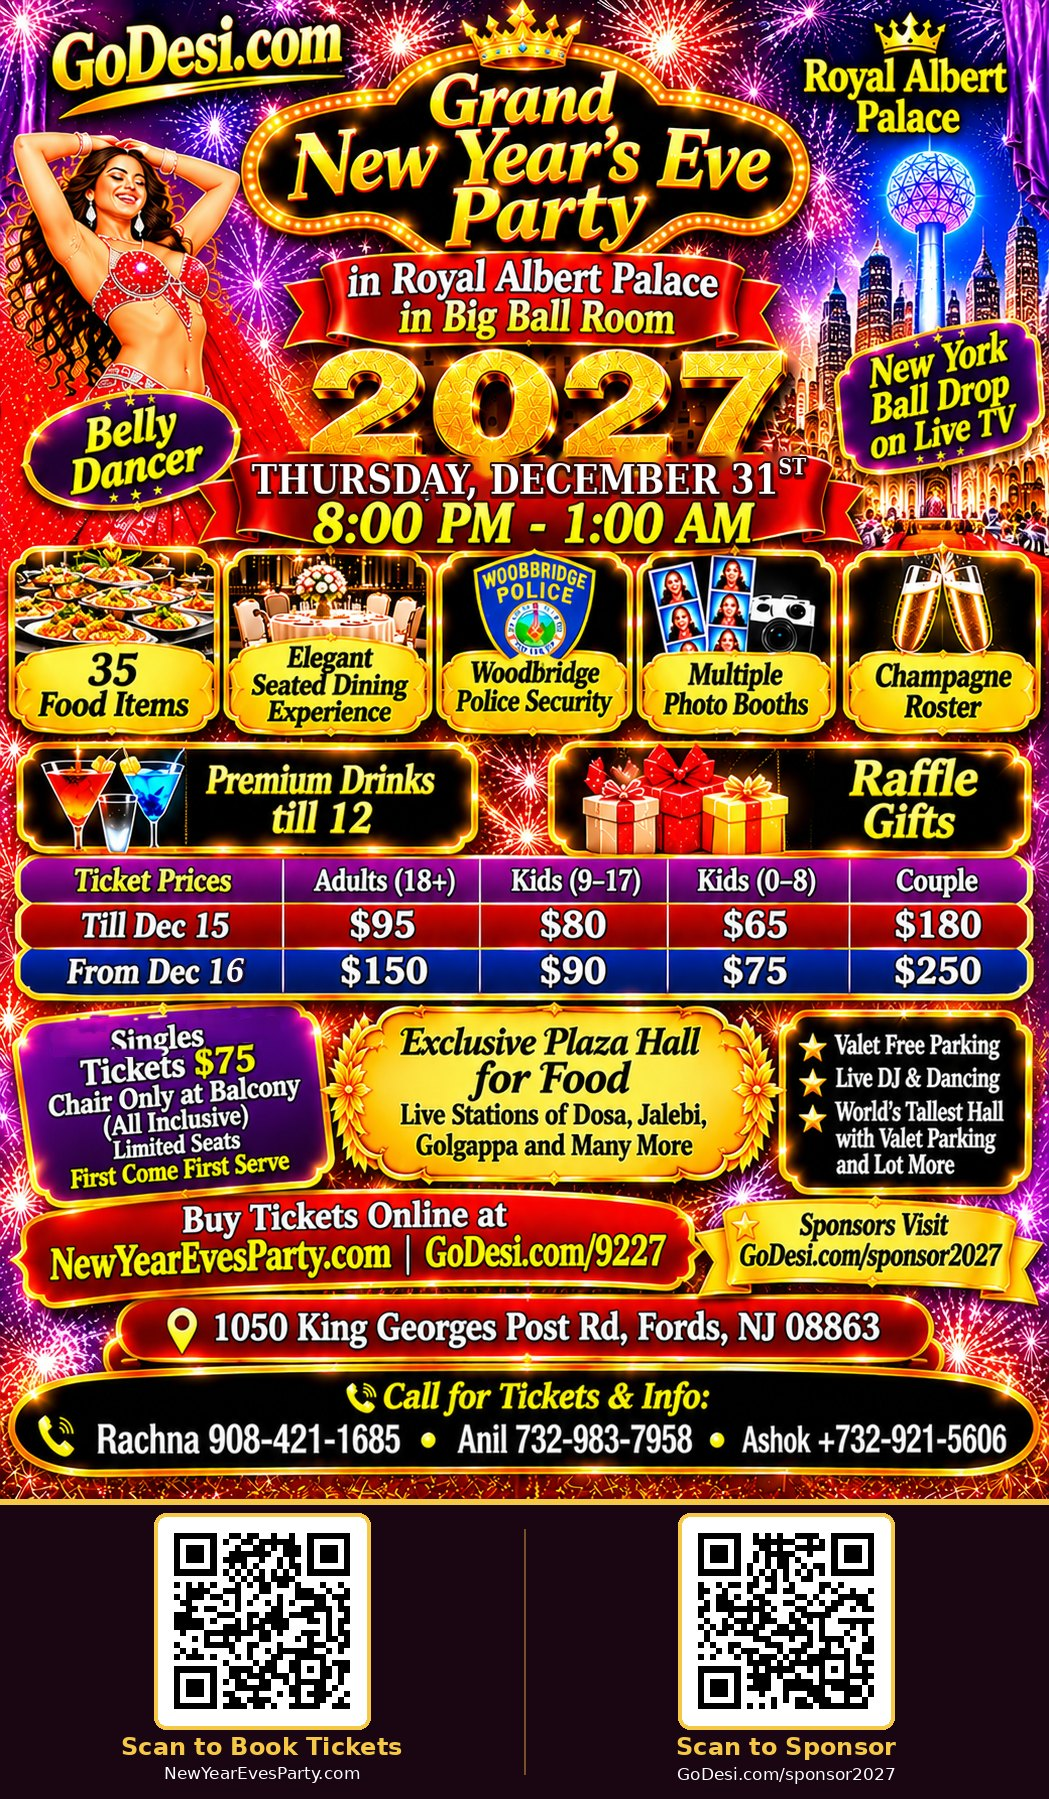
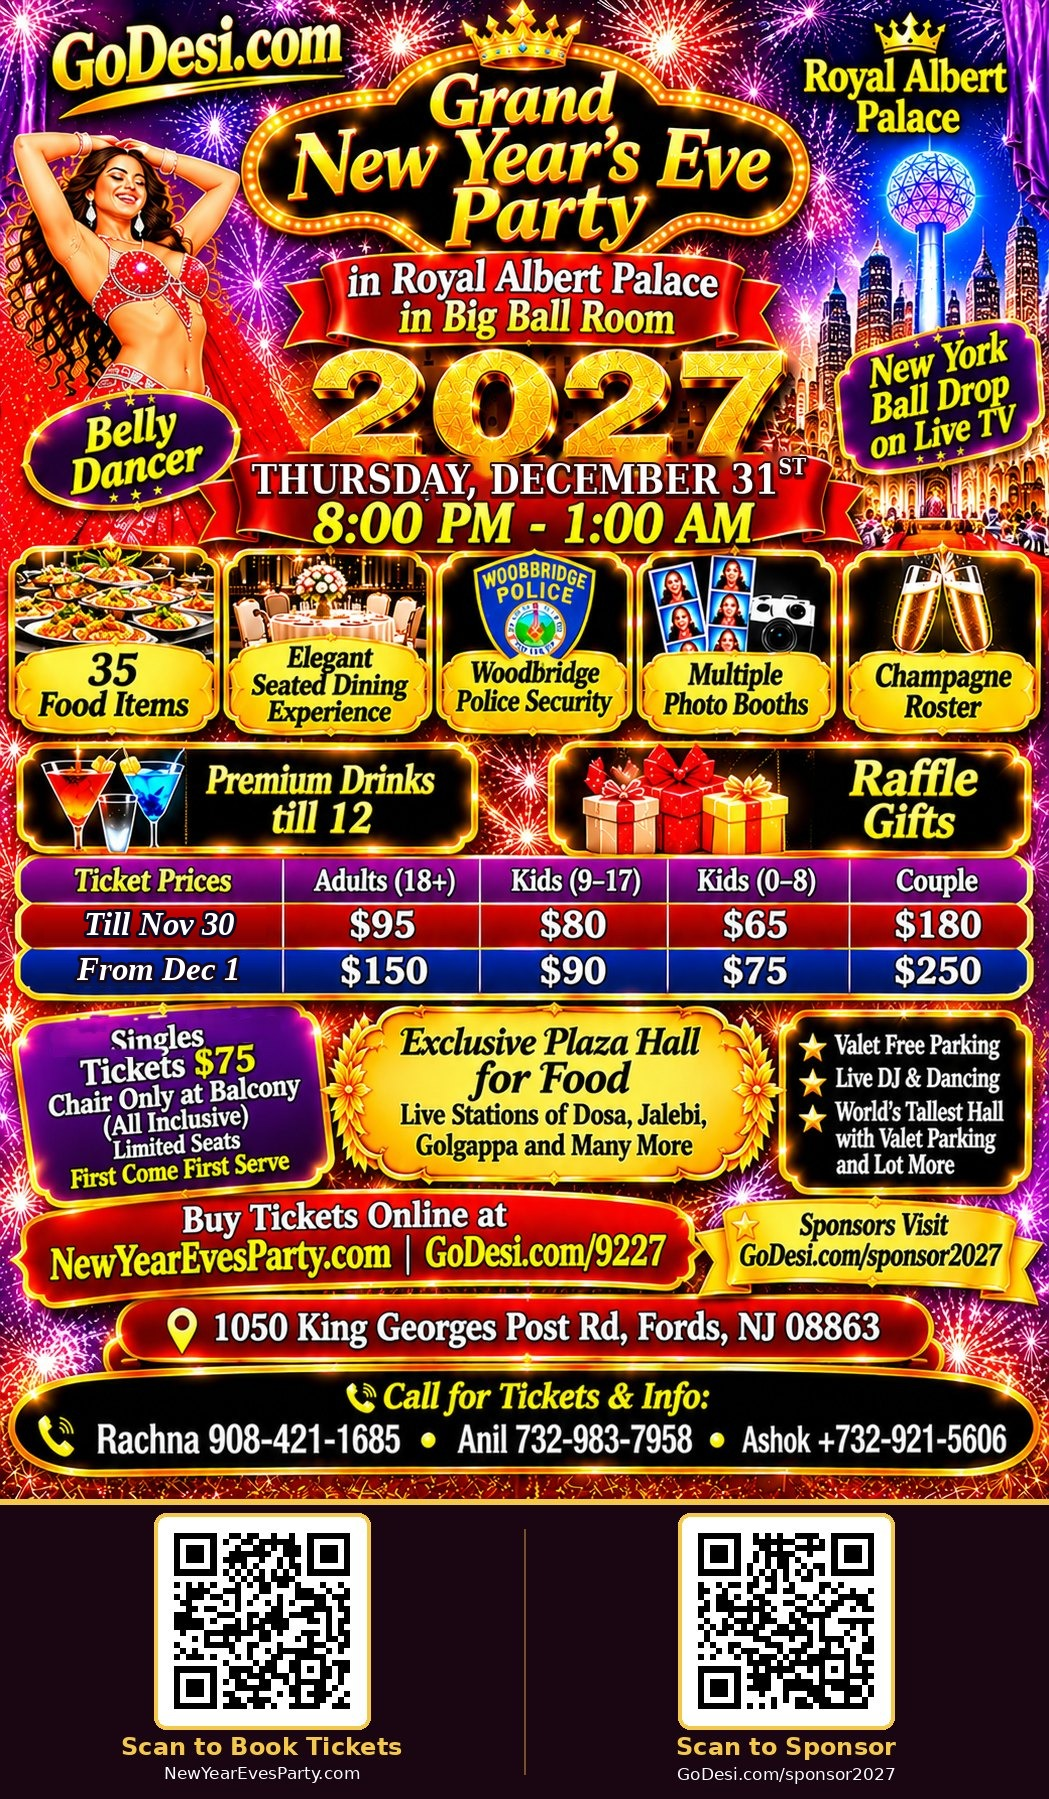
NYE 2027: early prices till Nov 30, late from Dec 1 (script, copy, flyer); drop Kid — no seat

Changed region(s): [[0.061, 0.4981, 0.244, 0.5603], [0.4576, 0.3113, 0.5796, 0.3424], [0.8541, 0.0934, 0.9152, 0.1245]]

diff --git a/scripts/update-nye-2027-edison.ts b/scripts/update-nye-2027-edison.ts
@@ -1,7 +1,7 @@
 /**
  * Brings the NYE 2027 Edison listing in line with the organiser's flyer: 8 PM start,
- * flyer image, early (till Dec 15) / late (from Dec 16) ticket prices plus the $75 balcony
- * chairs and Kid — no seat, and guest reviews typed out from the WhatsApp review album (first names only).
+ * flyer image, early (till Nov 30) / late (from Dec 1) ticket prices plus the $75 balcony
+ * chairs, and guest reviews typed out from the WhatsApp review album (first names only).
  * Safe to re-run: tiers are matched by name, reviews are replaced. Ticket tiers no longer in
  * TIERS are deleted when unsold (checkouts older than Stripe's 24h expiry just lose their tier),
  * or closed for sale when someone paid for one or may still be paying.
@@ -17,21 +17,16 @@ const SLUG = NYE_2027_EVENT_SLUG;
 const FLYER = "https://godesi.com/flyers/nye-2027-grand-party.jpg";
 const REVIEWS_ALBUM = "https://photos.app.goo.gl/nQrusW5e5pojmj7P7";
 
-/** Windows are in New York time; salesEnd is exclusive, so early tickets sell through Dec 15. */
+/** Windows are in New York time; salesEnd is exclusive, so early tickets sell through Nov 30. */
 const CHECKOUT_EXPIRY_CUTOFF = new Date(Date.now() - 24 * 60 * 60 * 1000);
-const LATE_START = new Date("2026-12-16T00:00:00-05:00");
+const LATE_START = new Date("2026-12-01T00:00:00-05:00");
 const EARLY_END = LATE_START;
-
-/** Kids who share a parent's chair: let in at the door but not given a seat. */
-const KID_NO_SEAT_PRICE = 0;
-const KID_NO_SEAT_STOCK = 25;
-const KID_NO_SEAT_LABEL = KID_NO_SEAT_PRICE ? `$${KID_NO_SEAT_PRICE}` : "free";
 
 const DESCRIPTION = [
   "Grand New Year's Eve Party 2027 in the Big Ball Room at Royal Albert Palace — Thursday, December 31st, 2026, 8:00 PM to 1:00 AM. Hosted by NewYearEvesParty.com, celebrating since 2018.",
   "35 food items and an elegant seated dining experience, with an exclusive Plaza Hall of live food stations — dosa, jalebi, golgappa and more. Premium drinks until midnight and a midnight champagne toast.",
   "Live DJ Sandy of M&D Events, a live belly dance performance, the New York ball drop on live TV, multiple photo booths and exciting raffle prizes. Woodbridge Police security and free valet parking.",
-  `Till Dec 15: Couple $180, Adult (18+) $95, Big Kid (9–17) $80, Small Kid (0–8) $65. From Dec 16: Couple $250, Adult (18+) $150, Big Kid (9–17) $90, Small Kid (0–8) $75. Kid — no seat (sits with a parent, no chair of their own): ${KID_NO_SEAT_LABEL}. VIP Table for 12 with a bottle of champagne on the table (only 5 tables): $1080 till Dec 15, $1200 from Dec 16. Balcony $75 — adults, chair only, all inclusive, limited seats, first come, first served, no table seating.`,
+  "Till Nov 30: Couple $180, Adult (18+) $95, Big Kid (9–17) $80, Small Kid (0–8) $65. From Dec 1: Couple $250, Adult (18+) $150, Big Kid (9–17) $90, Small Kid (0–8) $75. VIP Table for 12 with a bottle of champagne on the table (only 5 tables): $1080 till Nov 30, $1200 from Dec 1. Balcony $75 — adults, chair only, all inclusive, limited seats, first come, first served, no table seating.",
   "Call for tickets & info: Rachna 908-421-1685 · Anil 732-983-7958 · Ashok 732-921-5606. Book online at NewYearEvesParty.com or GoDesi.com/9227.",
   "Sponsors welcome: Silver $1,000, Gold $2,500 and Platinum $5,000 packages, plus single add-ons — GoDesi.com/sponsor2027.",
 ].join("\n\n");
@@ -39,8 +34,7 @@ const DESCRIPTION = [
 /**
  * The hall holds 400 people, so entry tiers add up to 400, counting a couple as 2:
  * early 40×2 + 120 + 25 + 25 = 250, Balcony 50, late 10×2 + 60 + 10 + 10 = 100.
- * Kid — no seat is let in at the door but takes no chair, so its stock sits on top of
- * the seated pool (see HALL_TICKETS). Balcony and Kid — no seat sell in both windows.
+ * Balcony sells in both windows.
  * `match` lists old names of the same ticket so bookings are kept when a tier is relabelled.
  * Sponsor packages are listed separately; the 2-pass ones add up to 18 more people.
  */
@@ -68,22 +62,19 @@ const BANNER_YEAR = "320×100 banner on GoDesi.com for 1 year";
  * seats at different dates, so the tiers add up to more than this; the event total
  * caps them together (lib/events pooledSeatsLeft).
  */
-const SEATED_TICKETS = 350;
-const HALL_TICKETS = SEATED_TICKETS + KID_NO_SEAT_STOCK;
+const HALL_TICKETS = 350;
 
 const BALCONY_NOTE = "Adults · chair only, all inclusive · first come, first served · no table seating";
-const KID_NO_SEAT_NOTE = "Sits with a parent · no chair or table seat of their own";
 
 /** GoDesi business pages listed as sponsors of the party. */
 const SPONSOR_BUSINESSES: string[] = [];
 
 const TIERS: TierSpec[] = [
-  { name: "Couple — Early", match: ["Couple — Early bird"], note: "Till Dec 15 · admits 2", price: 180, seats: 40, salesEnd: EARLY_END, admits: 2 },
-  { name: "Adult (18+) — Early", match: ["Adults (18+) — Early"], note: "Till Dec 15", price: 95, seats: 120, salesEnd: EARLY_END },
-  { name: "Big Kid (9–17) — Early", match: ["Kids (9–17) — Early"], note: "Till Dec 15", price: 80, seats: 25, salesEnd: EARLY_END },
-  { name: "Small Kid (0–8) — Early", match: ["Kids (0–8) — Early"], note: "Till Dec 15", price: 65, seats: 25, salesEnd: EARLY_END },
-  { name: "VIP Table for 12 with champagne — Early", note: "Till Dec 15 · 12 seats at a reserved VIP table, bottle of champagne on the table · only 5 tables", price: 1080, seats: 5, salesEnd: EARLY_END, admits: 12, stockGroup: "vip-table" },
-  { name: "Kid — no seat", note: KID_NO_SEAT_NOTE, price: KID_NO_SEAT_PRICE, seats: KID_NO_SEAT_STOCK },
+  { name: "Couple — Early", match: ["Couple — Early bird"], note: "Till Nov 30 · admits 2", price: 180, seats: 40, salesEnd: EARLY_END, admits: 2 },
+  { name: "Adult (18+) — Early", match: ["Adults (18+) — Early"], note: "Till Nov 30", price: 95, seats: 120, salesEnd: EARLY_END },
+  { name: "Big Kid (9–17) — Early", match: ["Kids (9–17) — Early"], note: "Till Nov 30", price: 80, seats: 25, salesEnd: EARLY_END },
+  { name: "Small Kid (0–8) — Early", match: ["Kids (0–8) — Early"], note: "Till Nov 30", price: 65, seats: 25, salesEnd: EARLY_END },
+  { name: "VIP Table for 12 with champagne — Early", note: "Till Nov 30 · 12 seats at a reserved VIP table, bottle of champagne on the table · only 5 tables", price: 1080, seats: 5, salesEnd: EARLY_END, admits: 12, stockGroup: "vip-table" },
   { name: "Balcony — first come, first served, no table seating", match: ["Singles — Balcony (chair only, all inclusive)", "Balcony seat — first come, first served", "Special balcony seat"], note: BALCONY_NOTE, price: 75, seats: 50 },
   { name: "Couple", match: ["Couple"], note: "Admits 2", price: 250, seats: 10, salesStart: LATE_START, admits: 2 },
   { name: "Adult (18+)", match: ["Adults (18+)"], price: 150, seats: 60, salesStart: LATE_START },
@@ -178,8 +169,7 @@ async function main() {
       description: DESCRIPTION,
       reviewsAlbumUrl: REVIEWS_ALBUM,
       tags: event.tags.includes(HIDE_SEATS_LEFT_TAG) ? event.tags : [...event.tags, HIDE_SEATS_LEFT_TAG],
-      /** The free Kid — no seat add-on would otherwise list the whole party as free. */
-      price: Math.min(...tiers.filter((tier) => tier.price > 0).map((tier) => tier.price)),
+      price: Math.min(...tiers.map((tier) => tier.price)),
       seatsTotal: Math.max(HALL_TICKETS, tiers.reduce((sum, tier) => sum + tier.seatsBooked, 0)),
     },
   });

diff --git a/scripts/nye-2027-to-newyearevesparty.ts b/scripts/nye-2027-to-newyearevesparty.ts
@@ -18,7 +18,7 @@ const TITLE = "Grand New Year's Eve Party 2027 at Royal Albert Palace, Fords NJ 
 const SUMMARY = [
   "NewYearEvesParty.com is hosting the Grand New Year's Eve Party 2027 on Thursday, December 31st, 2026, 8:00 PM to 1:00 AM, in the Big Ball Room at Royal Albert Palace, 1050 King Georges Post Rd, Fords NJ 08863 (near Edison).",
   "It's a family party: 35 food items, an elegant seated dining experience, an exclusive Plaza Hall with live food stations (dosa, jalebi, golgappa and more), premium drinks until midnight, a midnight champagne toast, live DJ Sandy of M&D Events, a live belly dance performance, the New York ball drop on live TV, multiple photo booths, exciting raffle prizes, Woodbridge Police security and free valet parking.",
-  "Till Dec 15: Adults (18+) $95, Kids (9–17) $80, Kids (0–8) $65, Couple $180. From Dec 16: Adults $150, Kids (9–17) $90, Kids (0–8) $75, Couple $250. Book at NewYearEvesParty.com or godesi.com/9227.",
+  "Till Nov 30: Adults (18+) $95, Kids (9–17) $80, Kids (0–8) $65, Couple $180. From Dec 1: Adults $150, Kids (9–17) $90, Kids (0–8) $75, Couple $250. Book at NewYearEvesParty.com or godesi.com/9227.",
   "Singles get their own first-come-first-served balcony — chair only, no table, all inclusive — for only $75. Limited seats; singles seats on GoDesi are 21+ with photo ID checked at the door. Book at godesi.com/927.",
   "Call for tickets & info: Rachna 908-421-1685 · Anil 732-983-7958 · Ashok 732-921-5606. Sponsors: godesi.com/sponsor2027.",
 ].join("\n\n");
